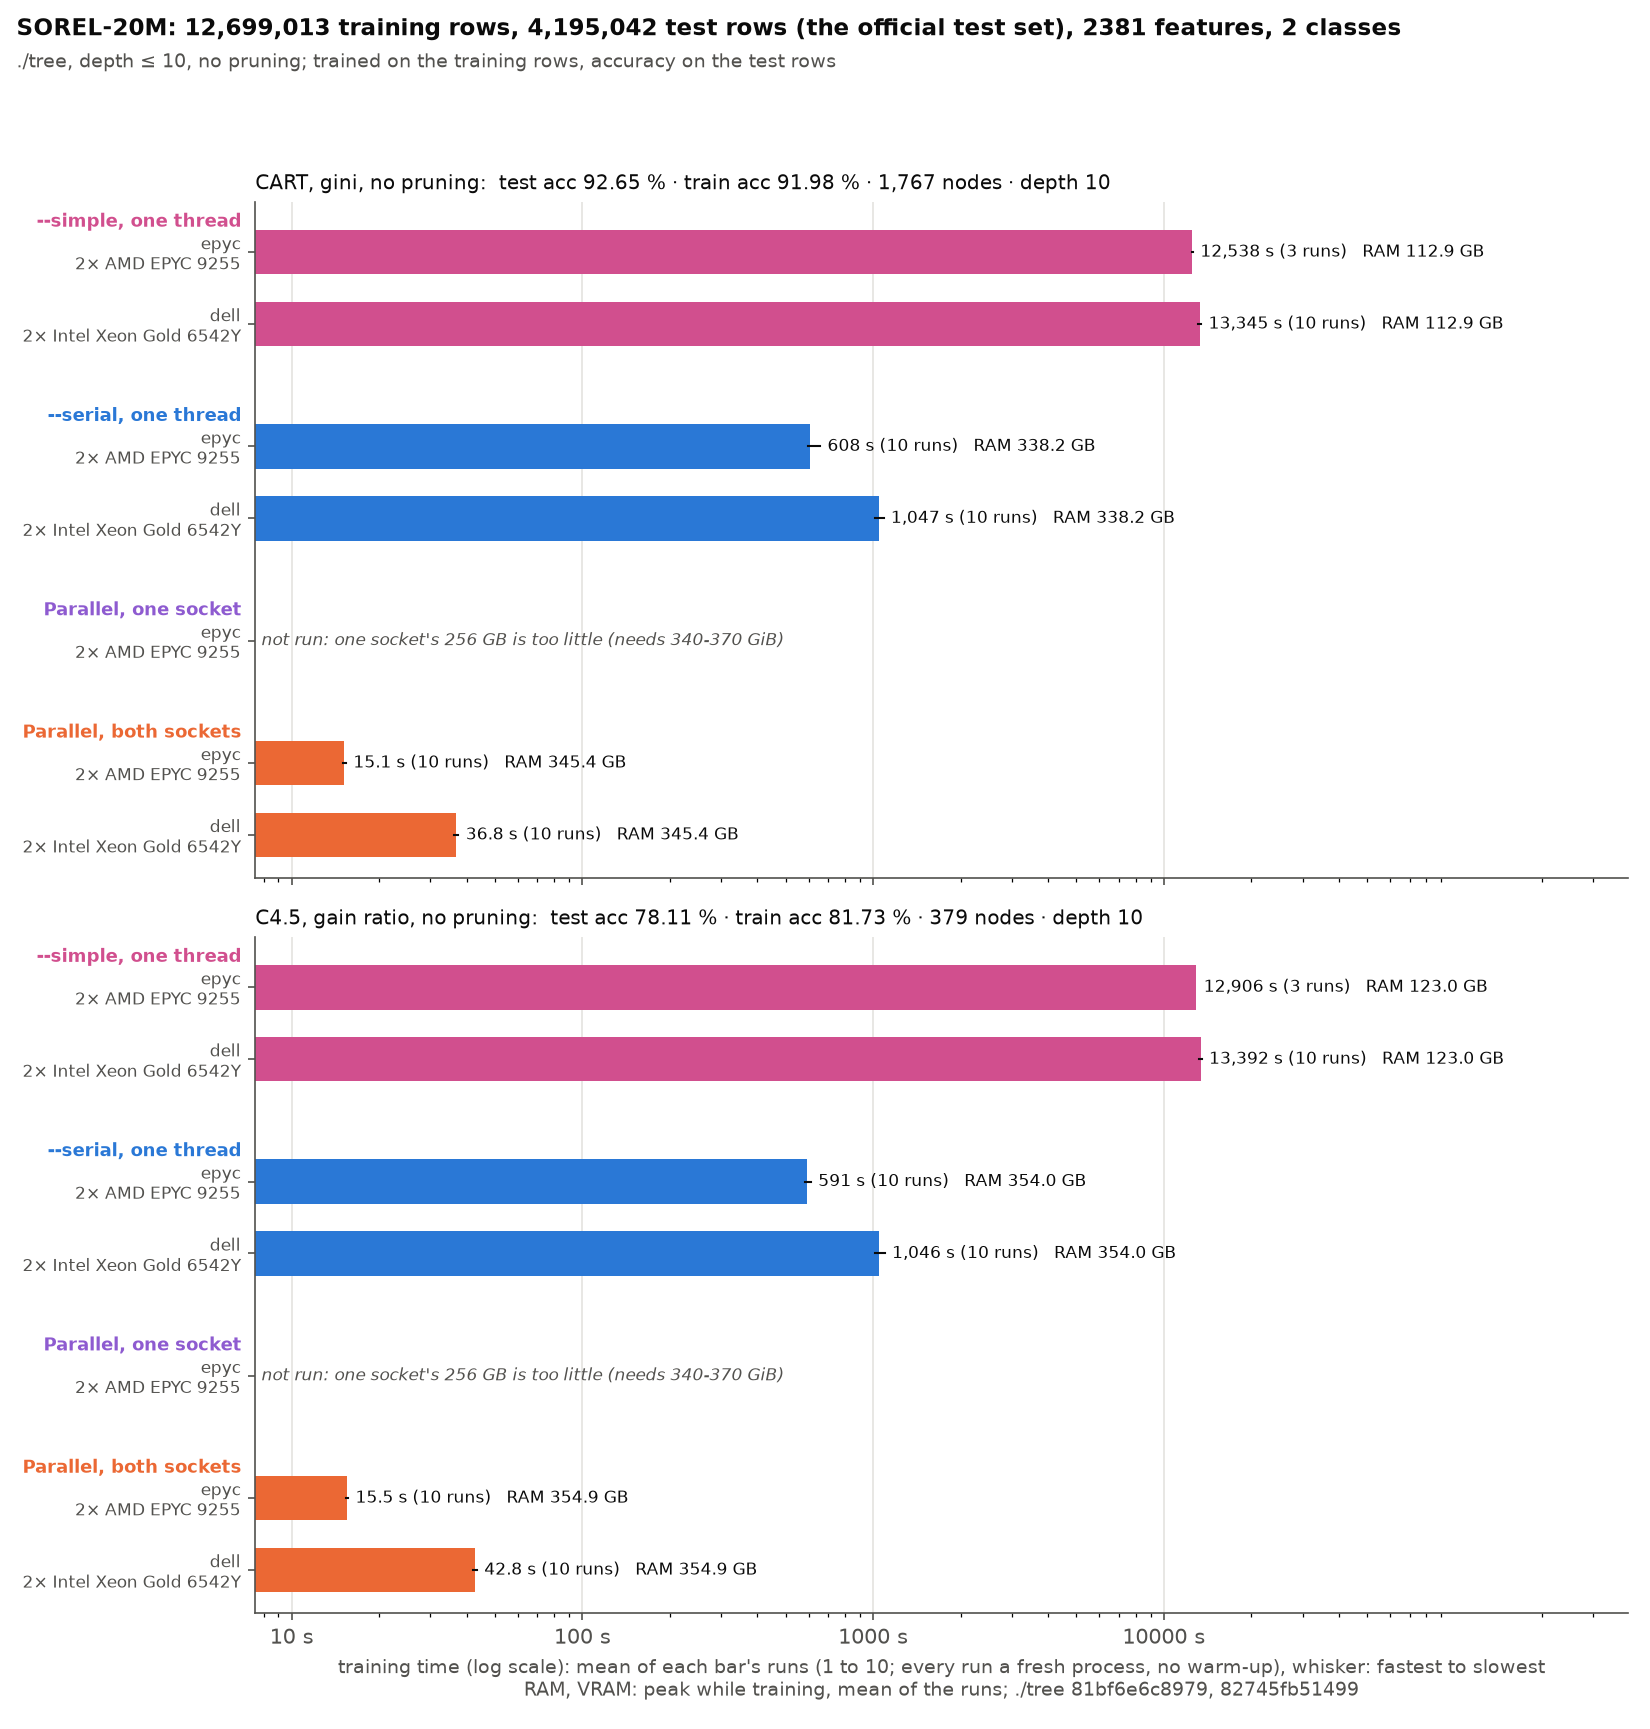
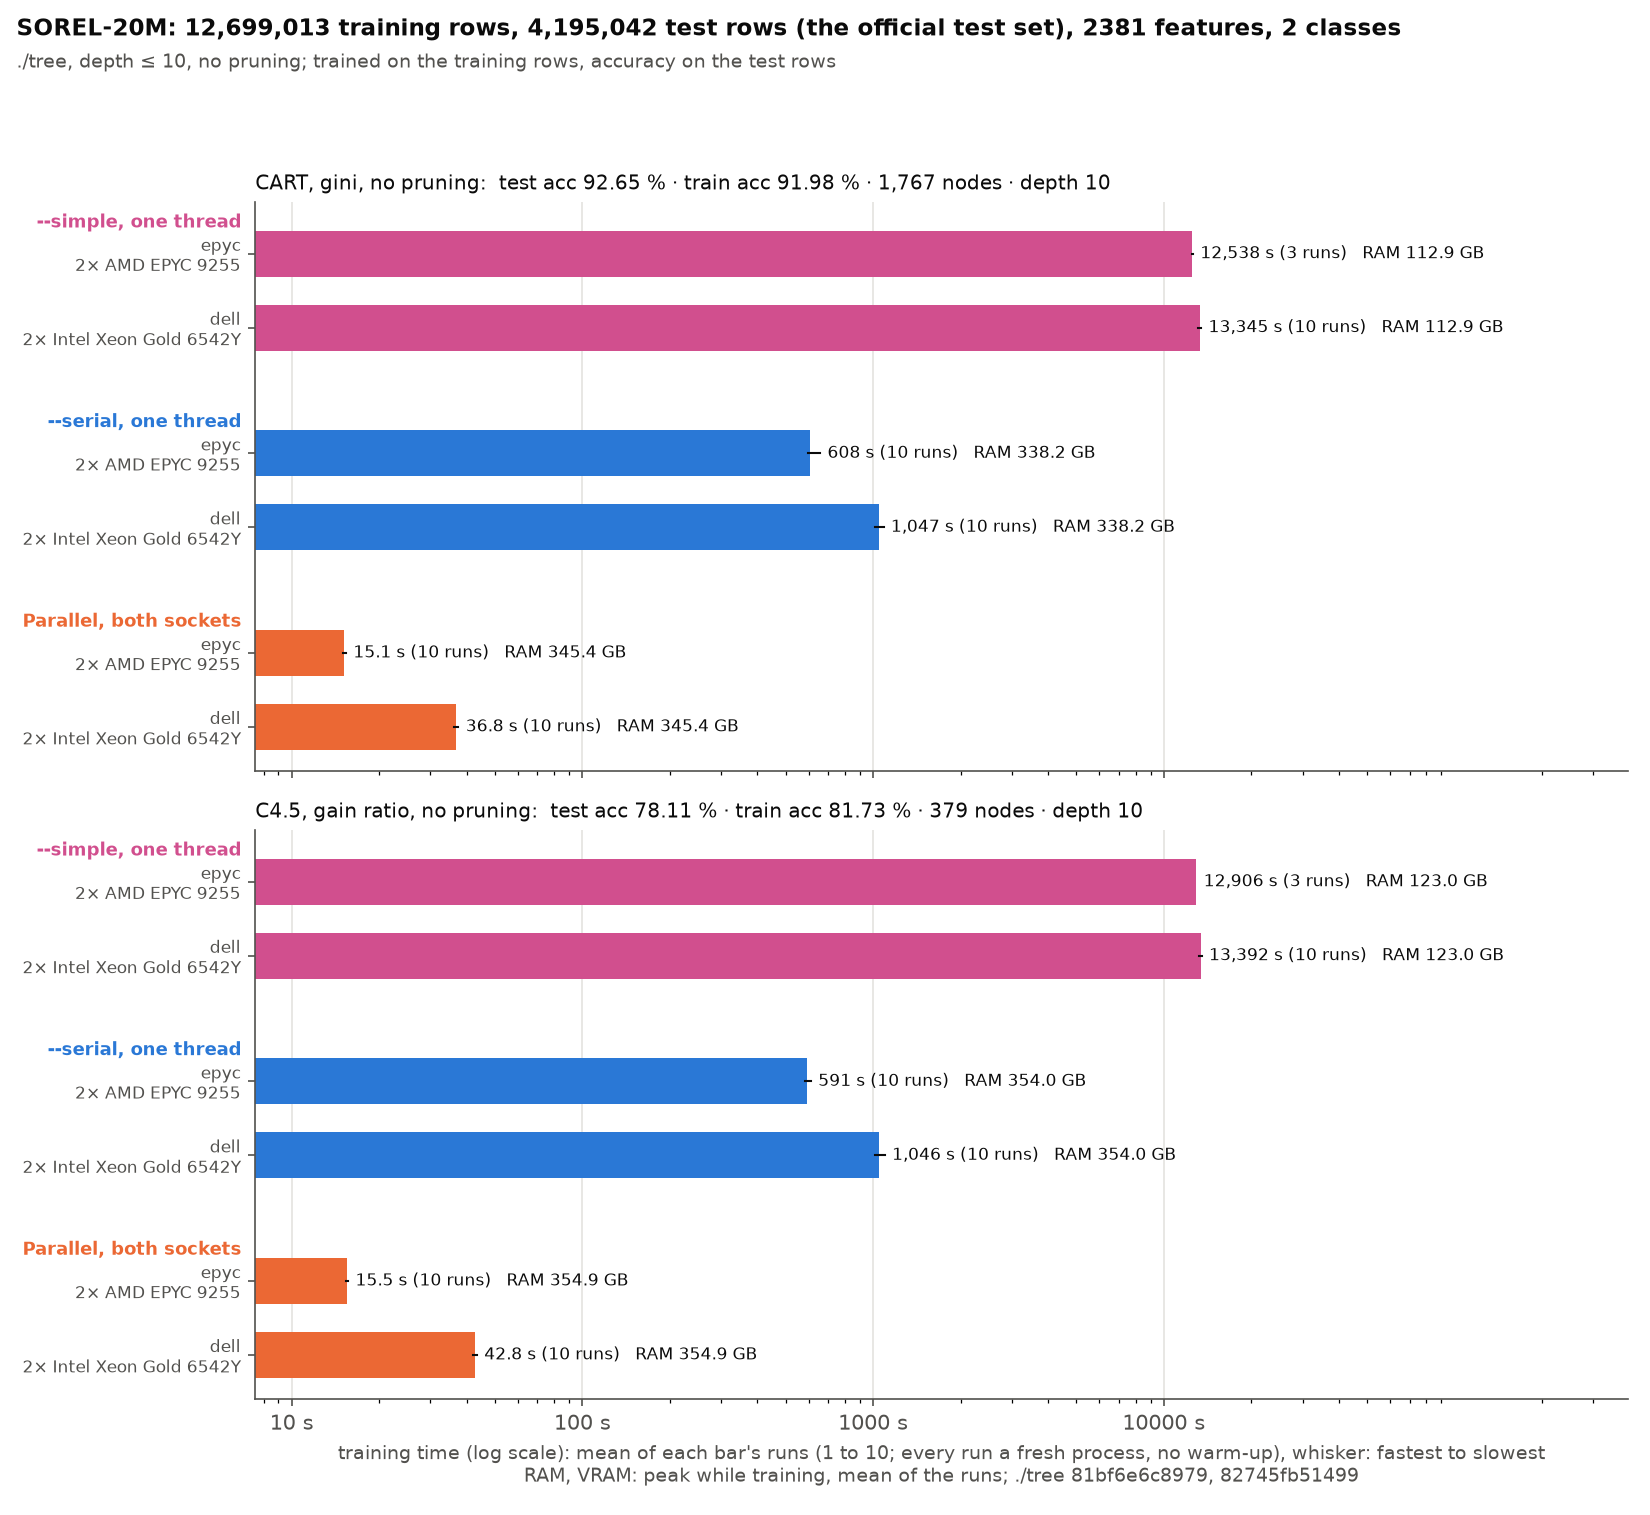
cluster-sorel: no one-socket row; testset_chart.py drops the one-socket backend
Single-socket runs will never be run, so the chart no longer has a
"not run" row for them (problems.json's only entry, removed).

diff --git a/bench/tools/testset_chart.py b/bench/tools/testset_chart.py
@@ -3,7 +3,7 @@
 dataset, ./tree on every node, trained on the training set and scored on the
 test set. One panel per algorithm (CART, C4.5; depth <= 10, no pruning), one
 bar per run (node and backend), on a log scale, the bars grouped by backend (--simple,
---serial, parallel on one socket, on both, CUDA hybrid, GPU only), the nodes under each. Tall panels go
+--serial, parallel on both sockets, CUDA hybrid, GPU only), the nodes under each. Tall panels go
 side by side, sharing the bars' labels. A bar is the mean training time
 of its runs, a whisker from the fastest to the slowest. Next to each bar:
 the mean time, the number of runs, and peak RAM (and VRAM
@@ -54,11 +54,11 @@ PROTOCOLS = list(PANELS)
 COLORS = {**COLORS, "simple": "#d14f8e"}
 # Run directories are <backend>-<machine>-<dataset>.
 BACKENDS = {"cuda": ("cuda", "CUDA hybrid"), "gpuonly": ("gpu_only", "CUDA, GPU only"),
-            "cpu": ("parallel", "Parallel, both sockets"), "socket": ("socket", "Parallel, one socket"),
+            "cpu": ("parallel", "Parallel, both sockets"),
             "serial": ("serial", "--serial, one thread"),
             "simple": ("simple", "--simple, one thread")}
 WARN = "#c0392b"
-GROUPS = ["simple", "serial", "socket", "cpu", "cuda", "gpuonly"]  # the backends, top to bottom
+GROUPS = ["simple", "serial", "cpu", "cuda", "gpuonly"]  # the backends, top to bottom
 NODES = ["epyc", "dell", "dell512", "hopper", "ampere"]  # the nodes in each
 GAP = 0.6  # the room of a backend's heading, in bars
 BAR = 0.42  # inches a bar takes (its slot)
